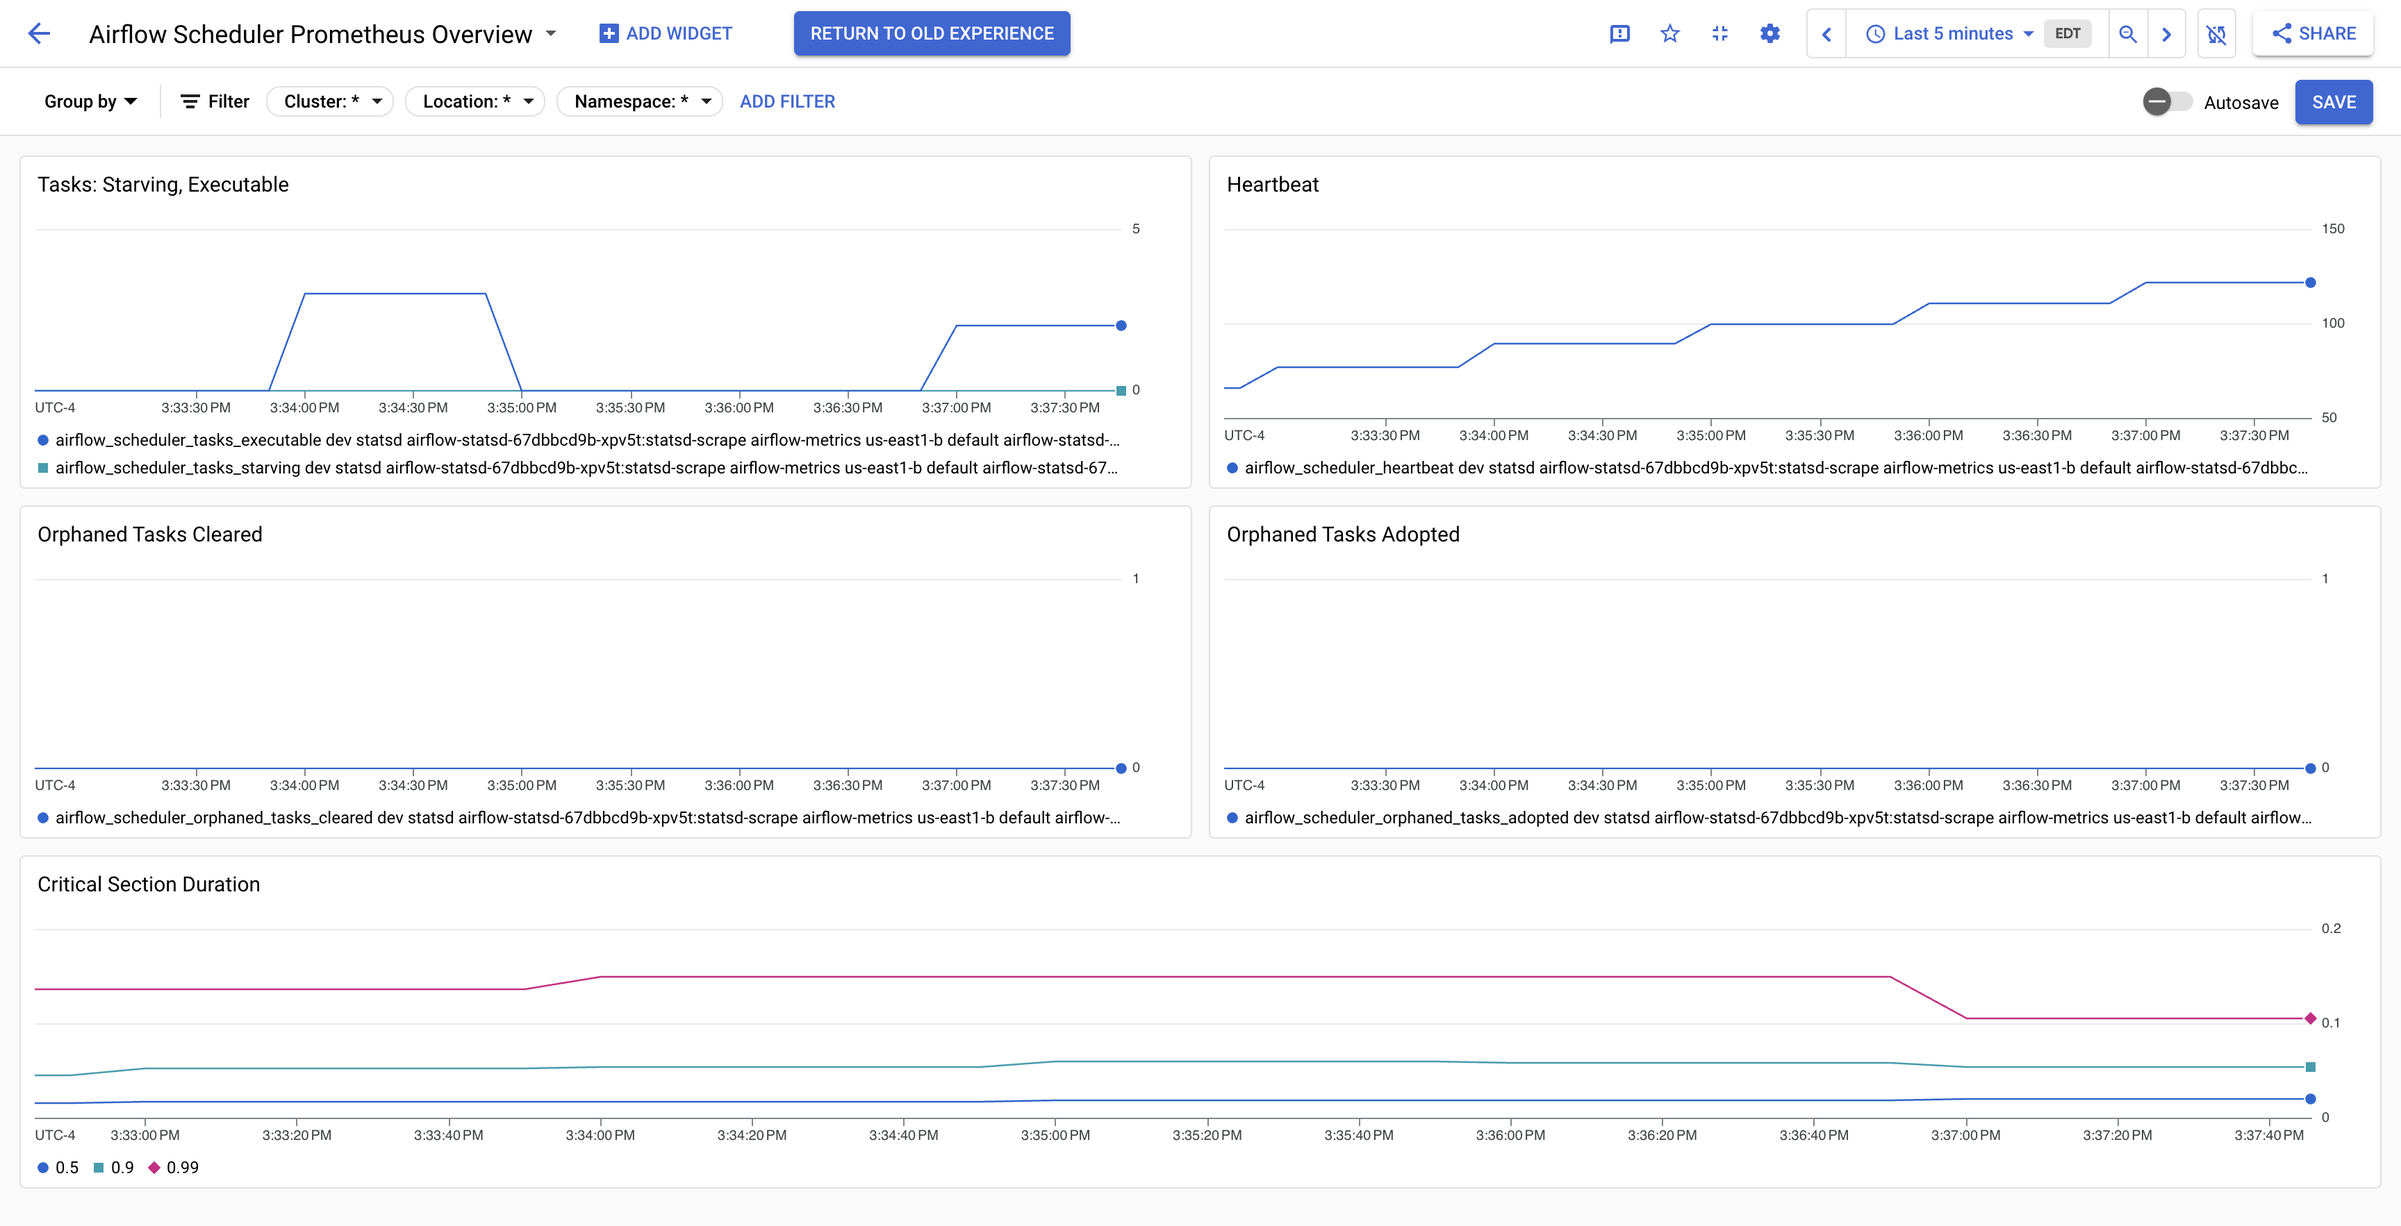
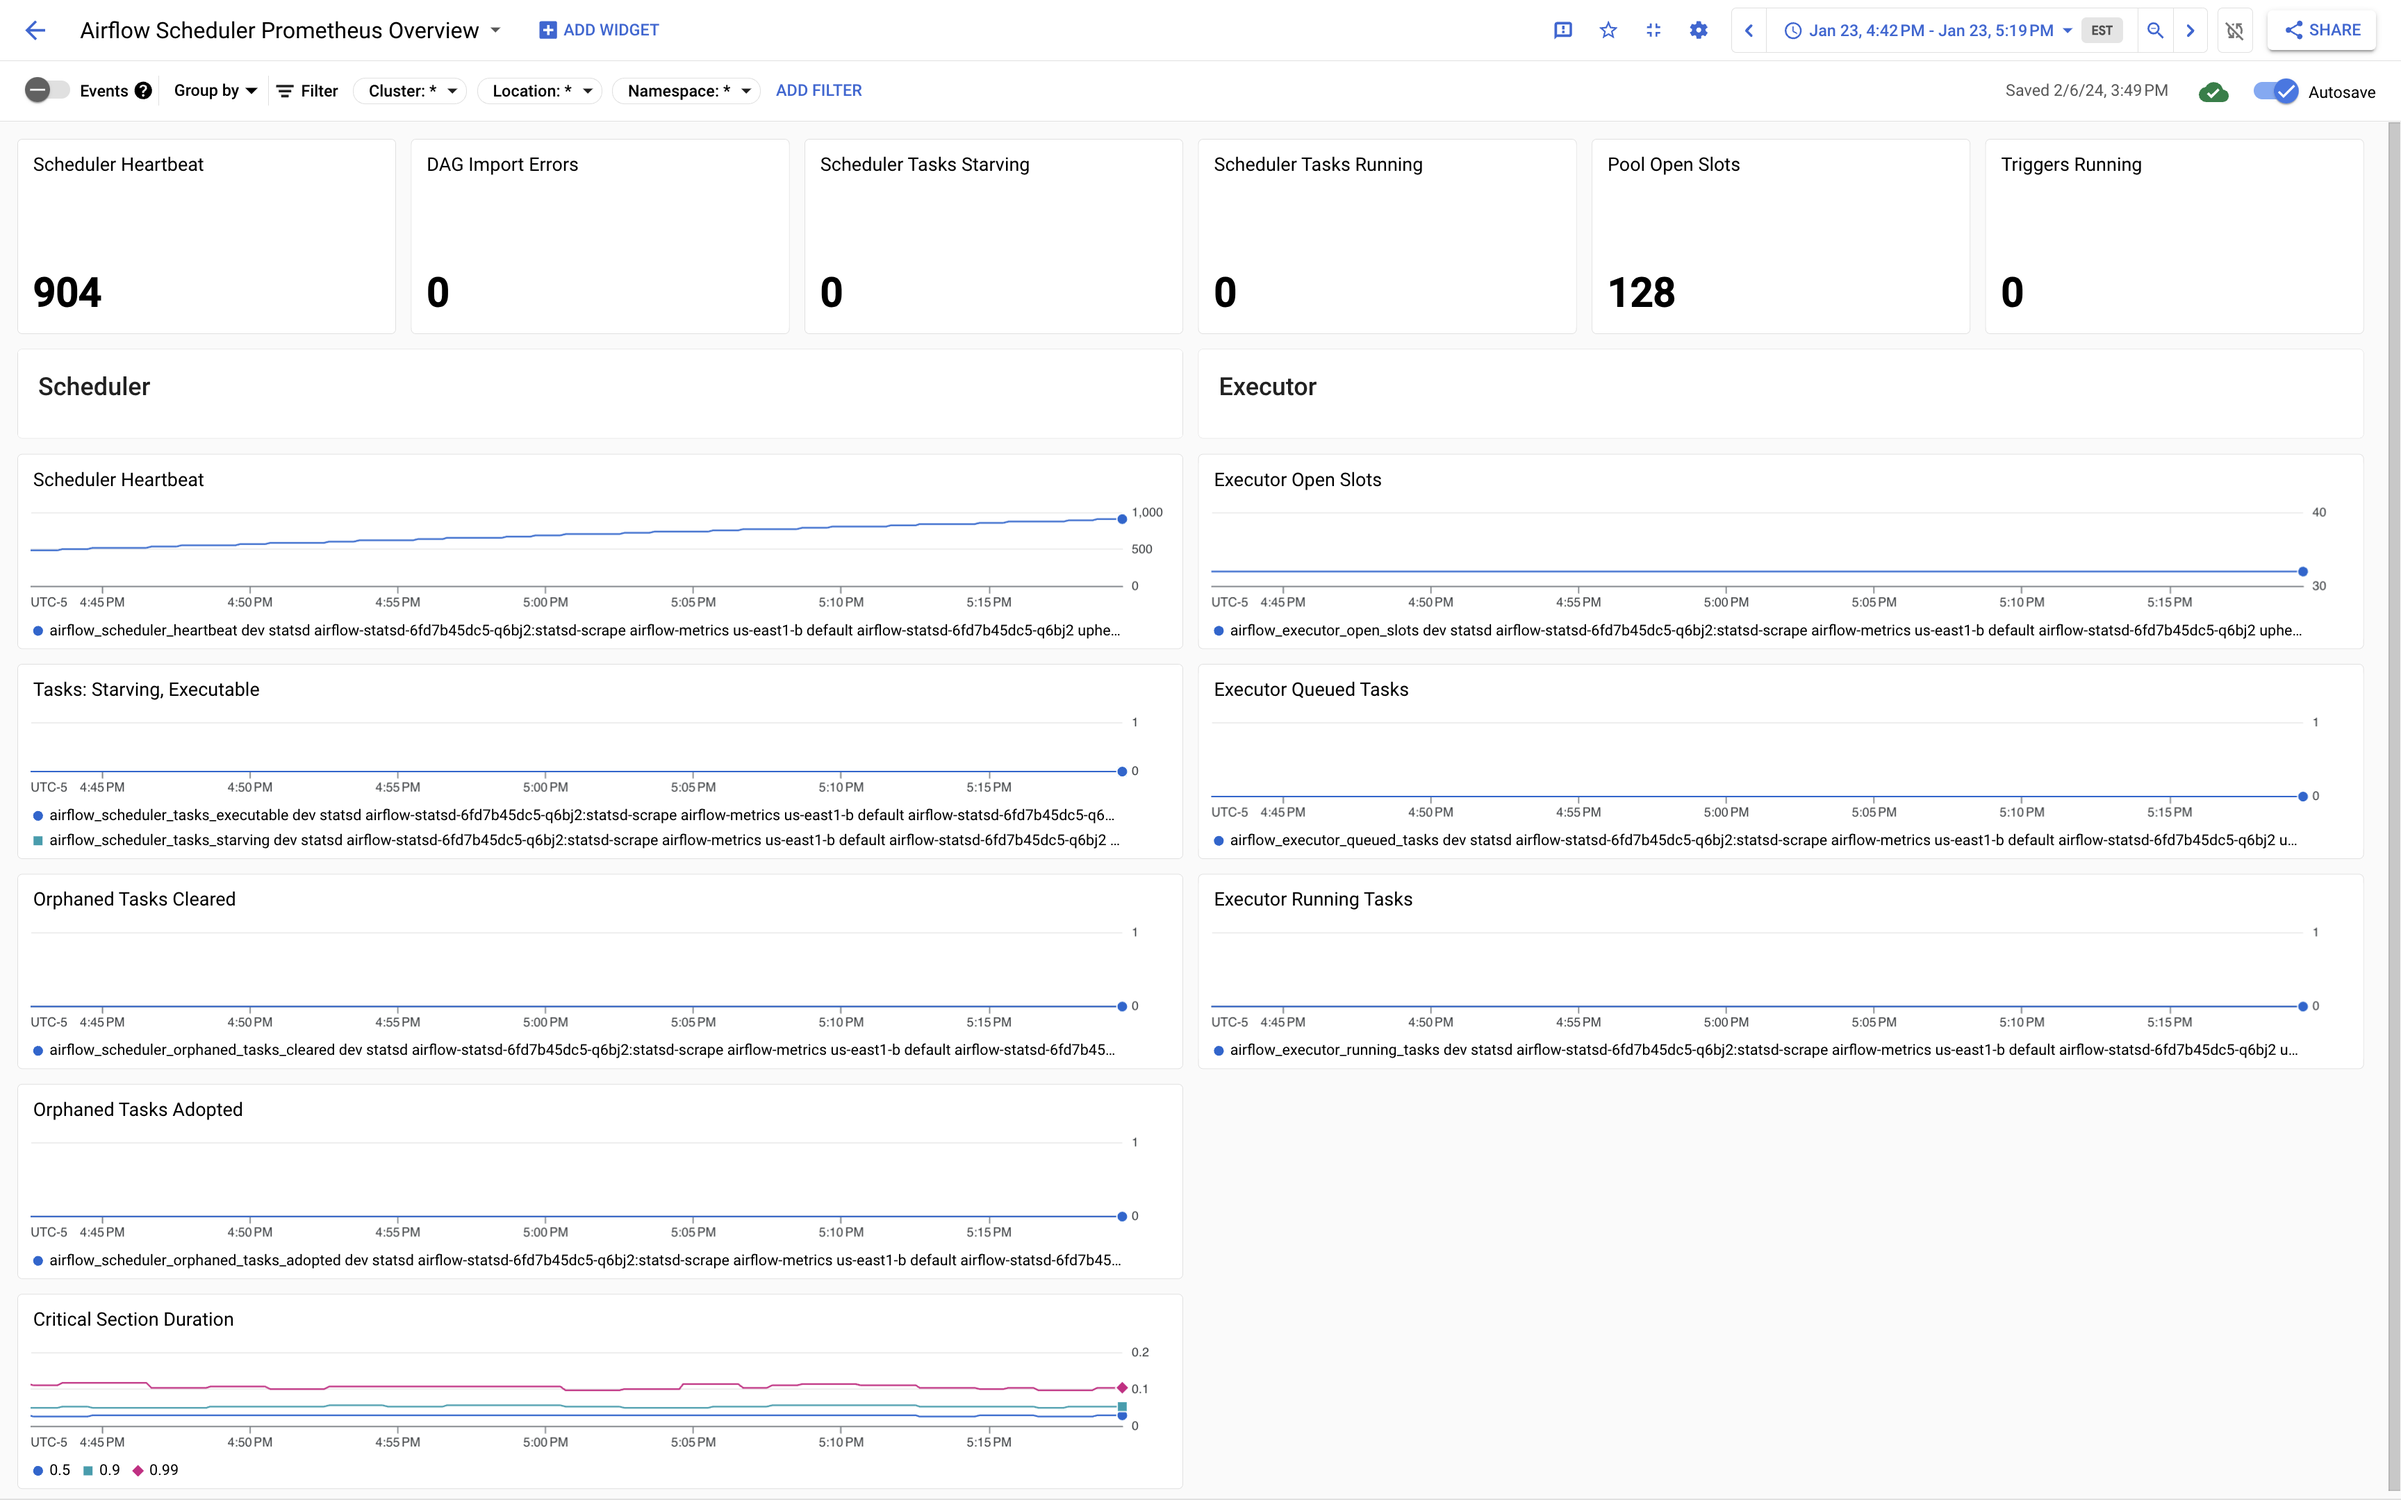
Airflow Prometheus dashboard KPI and layout update  (#693)
* updated docs and metadata to reflect new metrics

* updated dashboard screenshot

* updated dashboard json to reflect new layout and additional kpi metrics

* updated scorecards to use max/sum to avoid breaking when there are multiple timeseries

diff --git a/dashboards/apache-airflow/README.md b/dashboards/apache-airflow/README.md
@@ -7,4 +7,4 @@
 |Apache Airflow Scheduler|
 |:------------------|
 |Filename: [apache-airflow-prometheus.json](apache-airflow-prometheus.json)|
-|This dashboard has charts displaying `Tasks: Running, Starving, Executable`, `Heartbeat`, `Orphaned Tasks Cleared`, `Orphaned Tasks Adopted` and `Critical Section Duration` |
+|This dashboard has charts displaying `Tasks: Running, Starving, Executable`, `Heartbeat`, `Orphaned Tasks Cleared`, `Orphaned Tasks Adopted`, `Executor Slots Open`, `Executor Queued Tasks`, `Executor Running Tasks`, and `Critical Section Duration` |
